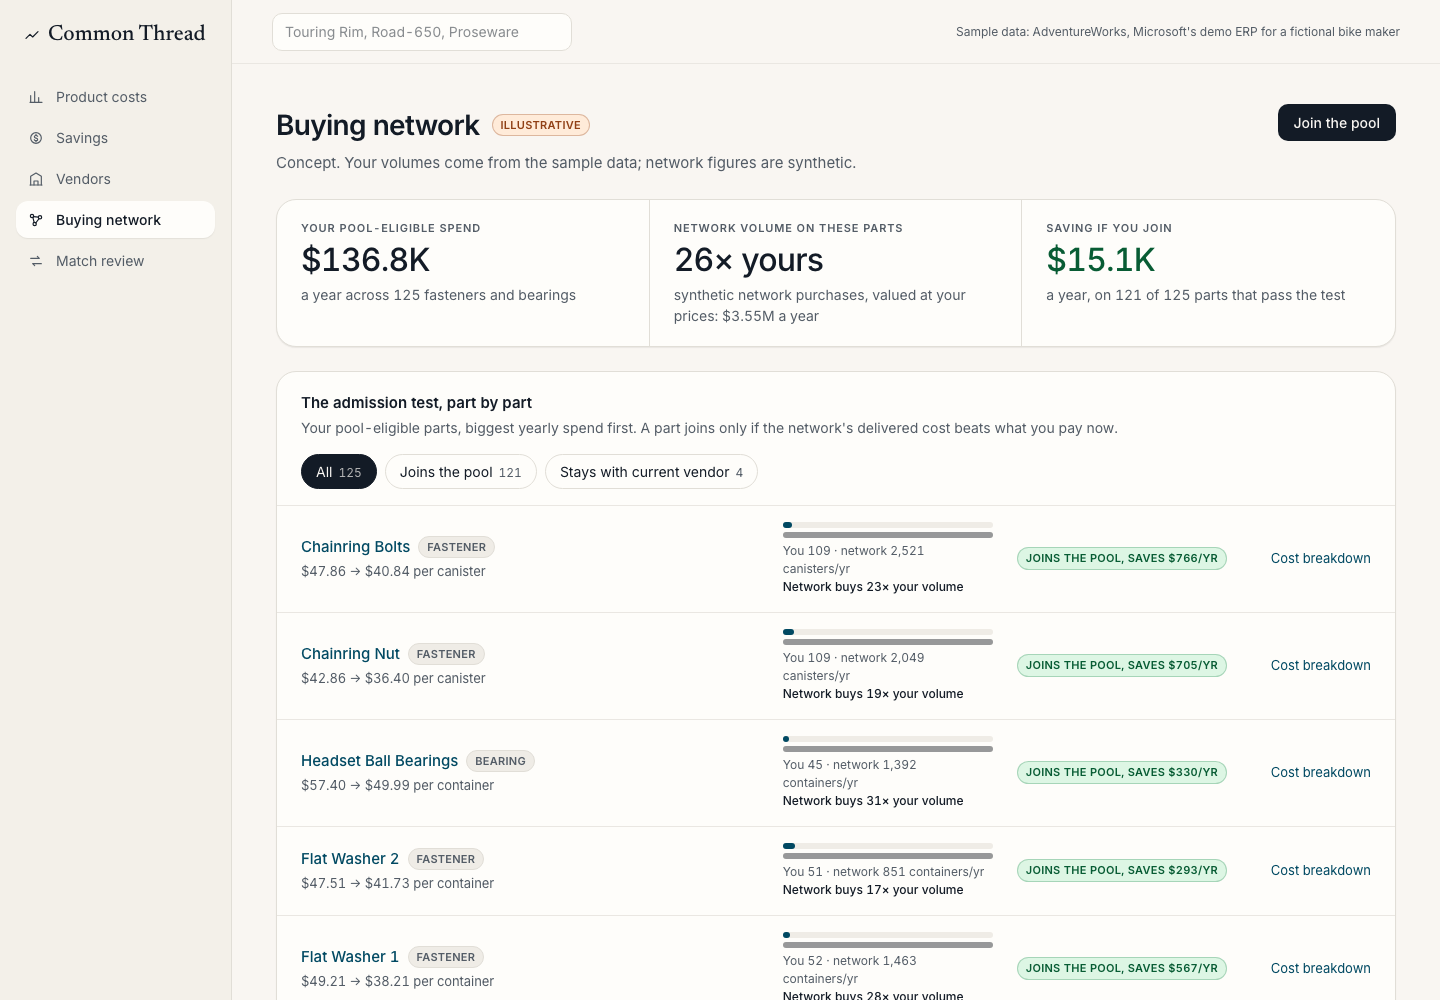
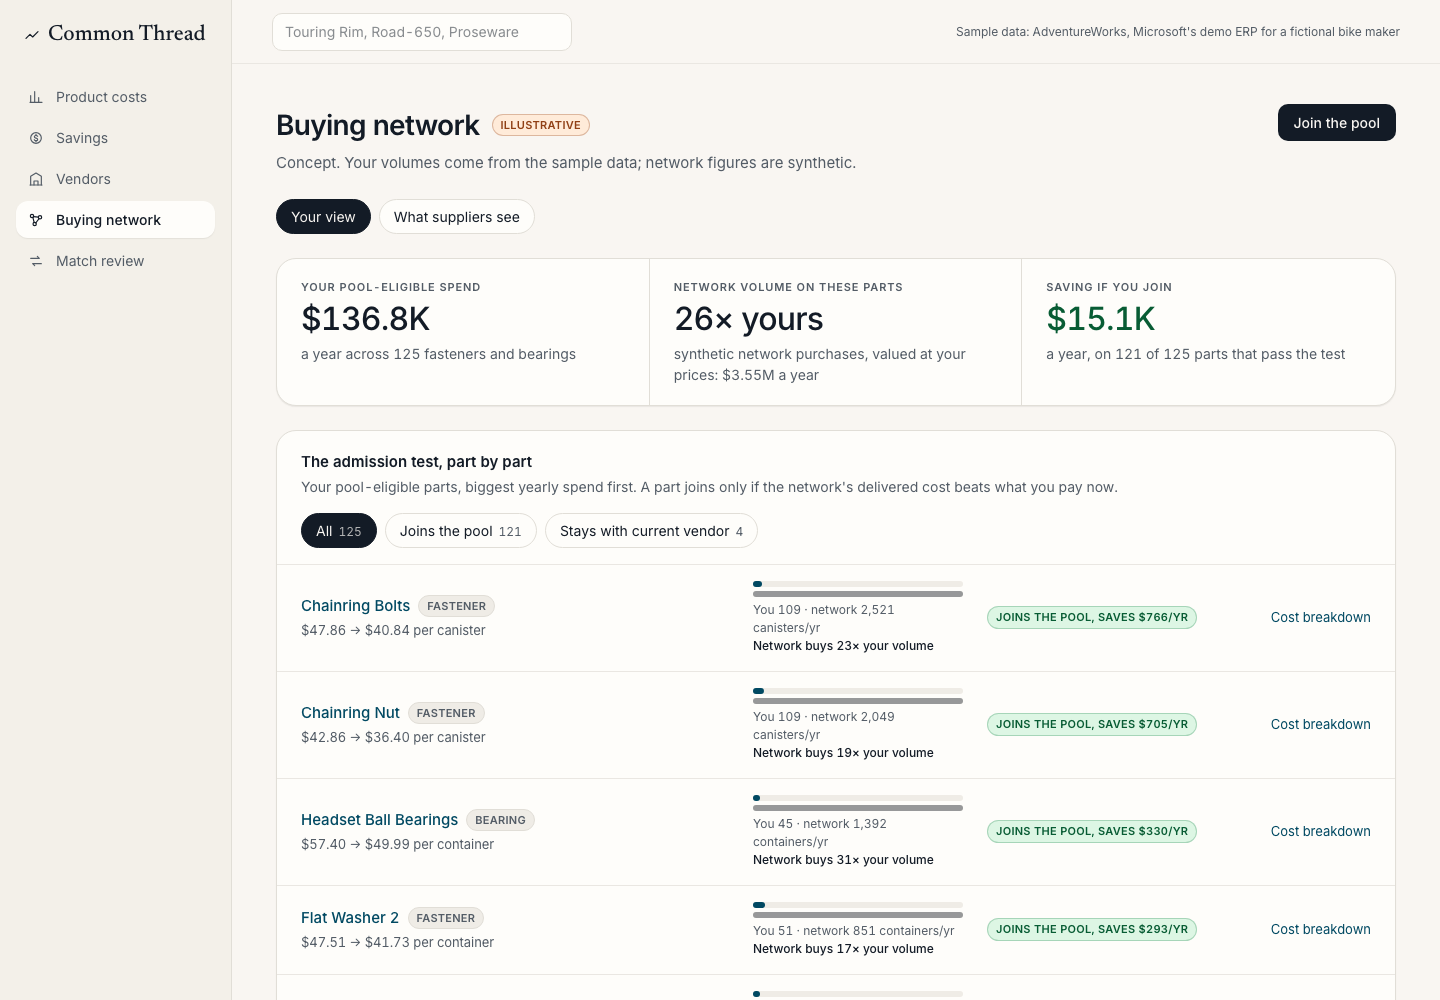
docs: handoff for the pitch demo

diff --git a/web/src/pages/Network.tsx b/web/src/pages/Network.tsx
@@ -76,7 +76,7 @@ function PartRow({ r, open, onToggle, highlighted }: { r: NetworkRow; open: bool
             : <span title={r.reason ?? undefined}><Chip>Stays with current vendor</Chip><span className="mt-1 block text-muted-foreground">{r.reason}</span></span>}
         </div>
         <button type="button" aria-expanded={open} aria-controls={`net-${m.id}`} onClick={onToggle}
-          className="text-[13px] text-primary hover:text-primary/80">{open ? 'Hide cost breakdown' : 'Cost breakdown'}</button>
+          className="w-[130px] text-right text-[13px] text-primary hover:text-primary/80">{open ? 'Hide cost breakdown' : 'Cost breakdown'}</button>
       </div>
       {open && <div className="border-t border-hairline bg-muted/30 pb-2"><Breakdown r={r} /></div>}
     </li>

diff --git a/HANDOFF.md b/HANDOFF.md
@@ -4,7 +4,8 @@ Common Thread, formerly Spendline (BOM to spend cube explorer). Read in this ord
 1. `BUILD_SPEC.md` sections 1, 2, 4 and 5 (the original spec and the data method).
 2. `SPEC_REVISION_2.md`. **It wins wherever it disagrees with `BUILD_SPEC.md` or with older decisions below.** Its section 10 covers the Lovable design port.
 3. `SPEC_VENDOR_PAGE.md`. It wins for vendor pages and the nav.
-4. This file.
+4. `SPEC_PITCH_DEMO.md`. **For the pitch demo it wins over `SPEC_REVISION_2.md`.**
+5. This file.
 
 ## Status (branch `main`)
 
@@ -14,10 +15,32 @@ Common Thread, formerly Spendline (BOM to spend cube explorer). Read in this ord
 | **5a Lovable look, current data** | **Done and merged** (`docs/superpowers/plans/2026-11-14-phase-5a-lovable-look.md`). Walked through in Chrome with no console errors. Opus whole-branch review: no Critical issues. Three fixes are on `main` (see "Review follow-ups"). |
 | **Vendor page** (`SPEC_VENDOR_PAGE.md`) | **Done and merged** (`docs/superpowers/plans/2026-11-14-vendor-page.md`). Section 6 acceptance passes. Walked through in Chrome. Opus review: no Critical issues, three Important fixes on `main` (see "Vendor page"). |
 | **Match review feedback** | **Done and merged** (`docs/superpowers/plans/2026-11-14-match-feedback.md`). Working review workflow on the page, held in page state, nothing saved (by request). Walked through in Chrome. Opus review: no Critical issues; two fixes on `main` (see "Match review feedback"). |
+| **Pitch demo** (`SPEC_PITCH_DEMO.md`) | **P0 and P1 built on branch `pitch-demo`** (`docs/superpowers/plans/2026-11-14-pitch-demo.md`): rename, sample-data label, hidden 5c controls, `/network`, supplier view, Part page link. See "Pitch demo" below. |
 | **5b Data** (`SPEC_REVISION_2.md` 10.4) | **Not started. Blocked on the team settling `SPEC_REVISION_2.md` section 3.6.** |
 | 5c Finance features | Not started (depends on 5b). |
 
-193 tests pass (`cd web && npm test`). `npm run build` and `npx oxlint src` are clean. `python3 data/check_outputs.py web/public/data` prints `ALL CHECKS PASSED`.
+237 tests pass (`cd web && npm test`). `npm run build` and `npx oxlint src` are clean. `python3 data/check_outputs.py web/public/data` prints `ALL CHECKS PASSED`.
+
+## Pitch demo (after match feedback)
+
+- **Name:** the app is **Common Thread** (was Spendline). `src/test/noOldName.test.ts` guards against the old name in `web/src` and `web/index.html`.
+- **Sample-data line:** every page's top bar says "Sample data: AdventureWorks, Microsoft's demo ERP for a fictional bike maker", with a hover sentence.
+- **Hidden controls:** the "All years" select and "Assumptions" button are behind `FEATURES.yearAndAssumptions` in `lib/features.ts` (off). **Phase 5c: flip it to `true`.**
+- **`/network` (Buying network, after Vendors):** an Illustrative concept page.
+  - Three headline numbers, then the part-by-part admission test: top 10, "Show all", filter chips (All / Joins the pool / Stays with current vendor), and a click-to-expand delivered-cost breakdown per row.
+  - **Join the pool** is page state only, nothing is saved, and it resets on reload.
+  - A second tab, **What suppliers see**, for the 7 on-BOM pool parts: network demand, a four-quarter forecast, member count only, and the 2% fee (illustrative).
+  - **Deep link:** `/network?part=:id` opens the full list with that row expanded.
+  - Part pages for pool parts have a line under the vendor cards linking to their row.
+- **Data:** `python3 data/build_network.py data/raw web/public/data` writes `network_member.json` (real) and `network_synthetic.json` (seeded, every record `"synthetic": true`). Rerunning gives identical files. The tuned values (`SEED = 7`, `W = 0.5`, `FREIGHT_PER_DELIVERY = 5.0`) give 121 parts passing and 4 failing (Lock Washer 1, 2, 9, 11), with a 18.2% average discount on passing parts. `check_outputs.py` covers both files. Logic is in `lib/network.ts`.
+- **Where the data differs from the spec:**
+  - The pool is **125 parts / $136.8K a year**, not 127 / $137K, and **7** are on a BOM, not 8.
+  - Chainring Bolts are bought by the **canister**, so the page says "per canister" and never mixes per-piece figures.
+  - Every sample PO line is 3 units, so "freight at your order size" assumes one network delivery a month.
+  - Lead time and minimum order are drawn at or under the member's, so only price and freight can fail a part. Those two branches are unit-tested only.
+- **Saving figure:** the page says **$15.1K a year** (about 11% of pool spend). The deck's "18% lower" is the pooled price before fee and freight.
+- **For Joe (spec 5.3, slide 9):** swap the screw numbers for Chainring Bolts: you buy **109 canisters a year** (real), the network buys **2,521** (synthetic), 17 manufacturers.
+- **Screenshots for the deck:** `docs/pitch/slide-6-touring-rim.png` and `docs/pitch/slide-9-network.png`, taken at 1440 px.
 
 ## What 5a changed
 
